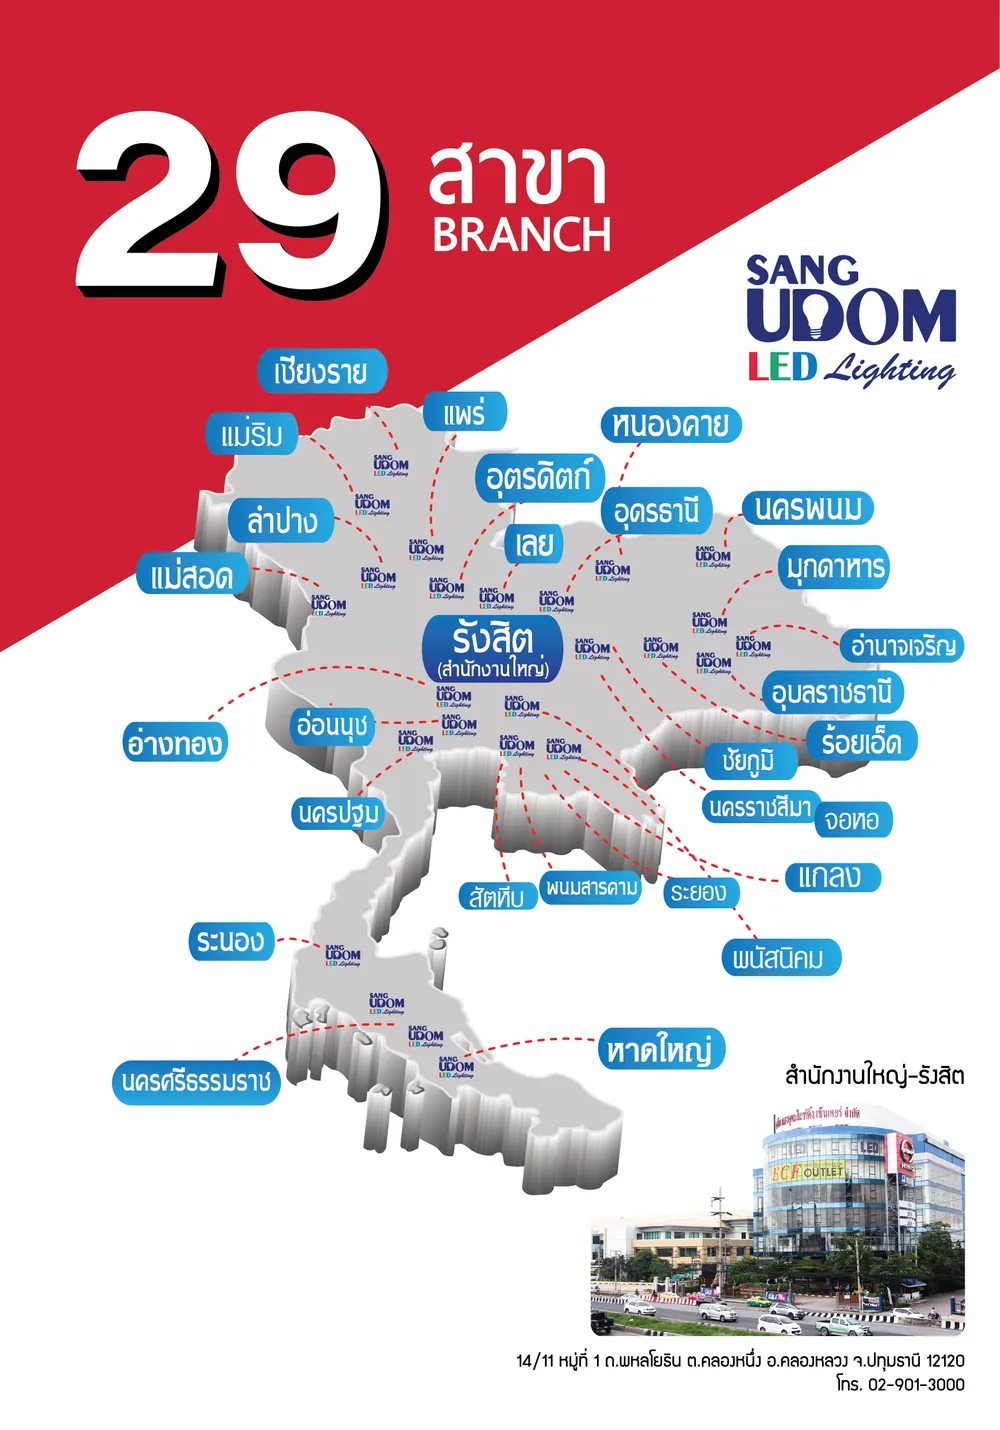
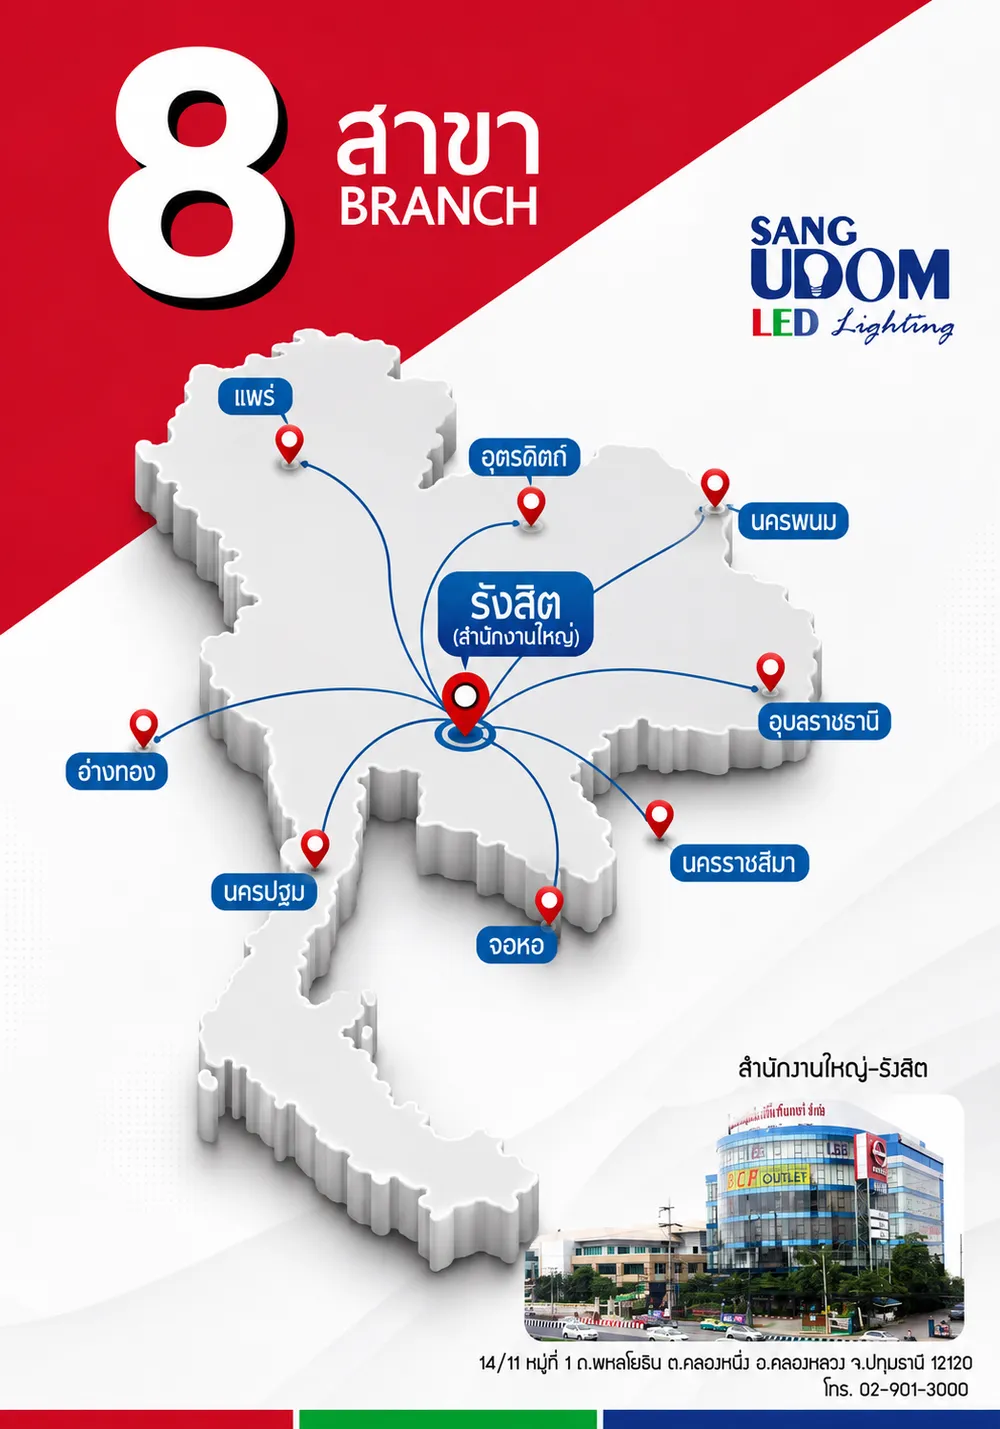
fix: update branch map to 8 branches via page override (#1)

diff --git a/scripts/overrides/README.md b/scripts/overrides/README.md
@@ -1,0 +1,11 @@
+# Page overrides
+
+Drop a file named `page-NNN.<ext>` here to replace what the catalog scan says for that page.
+`optimize-images.mjs` uses an override in place of the original source image, so the fix
+survives `npm run optimize --force` instead of being silently overwritten.
+
+Supported extensions: `.png`, `.jpg`, `.jpeg`, `.webp`
+
+| Page | File | Why |
+|------|------|-----|
+| 003 | `page-003.png` | Branch map redrawn: the printed catalog says 29 สาขา, but the company now has 8. |
